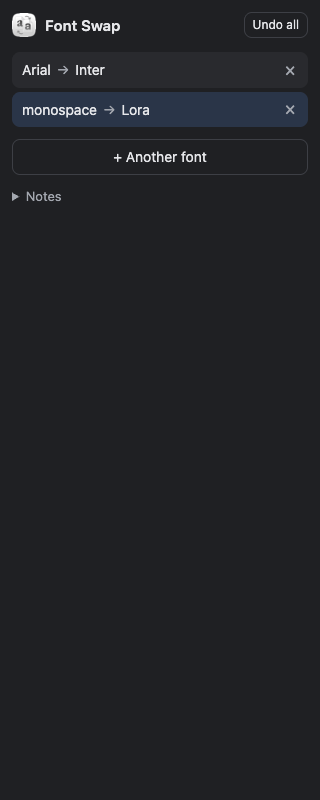
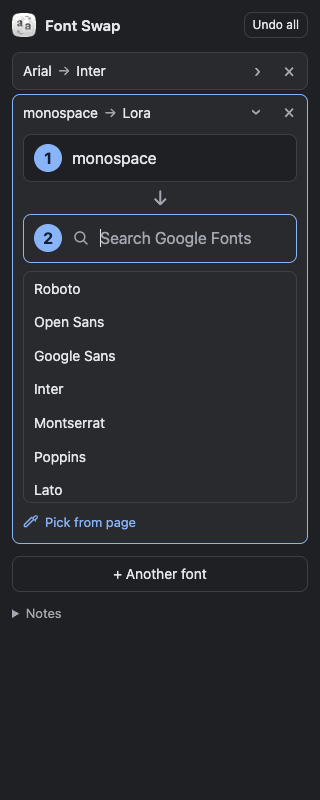
Make font swaps edit inline with clear search and page picking (#2)
* Make the replacement font field visibly searchable

* Expand saved font swaps inline without removing them

* Add an eyedropper beside Pick from page

diff --git a/extension/sidepanel.js b/extension/sidepanel.js
@@ -13,6 +13,7 @@ const els = {
   picking: $('picking'),
   cancel: $('cancel'),
   pairs: $('pairs'),
+  stepsHome: $('steps-home'),
   steps: $('steps'),
   pickSource: $('pick-source'),
   sourceName: $('source-name'),
@@ -144,10 +145,11 @@ function render() {
   els.undo.hidden = !rules.length;
   els.undo.disabled = busy;
   els.picking.hidden = !state.picking;
-  renderPairs(rules);
+  const inline = renderPairs(rules, editing);
 
   els.steps.hidden = !editing;
-  els.another.hidden = editing;
+  els.stepsHome.hidden = !editing || inline;
+  els.another.hidden = !rules.length || (editing && !inline);
   els.sourceName.textContent = state.source || 'Pick font';
   els.pickSource.setAttribute('aria-label', state.source ? `Font to change: ${state.source}. Pick another` : 'Pick font to change');
   els.pickSource.setAttribute('aria-pressed', String(state.picking === 'source'));
@@ -165,25 +167,36 @@ function render() {
   els.warningList.replaceChildren(...warnings.map((text) => Object.assign(document.createElement('li'), { textContent: text })));
 }
 
-function renderPairs(rules) {
+function renderPairs(rules, editing) {
   els.pairs.hidden = !rules.length;
-  const current = sourceKey(state);
-  const signature = JSON.stringify([current, rules.map((rule) => [rule.id, rule.frameId, rule.source, destinationName(rule.destination)])]);
-  if (signature === pairsSignature) return;
+  const openKey = editing ? sourceKey(state) : '';
+  const inline = rules.some((rule) => `${rule.frameId}:${rule.source}` === openKey);
+  const signature = JSON.stringify([openKey, rules.map((rule) => [rule.id, rule.frameId, rule.source, destinationName(rule.destination)])]);
+  if (signature === pairsSignature) return inline;
   pairsSignature = signature;
+  // Keep the single editor alive while rebuilding its accordion rows.
+  els.stepsHome.append(els.steps);
   els.pairs.replaceChildren(...rules.map((rule) => {
     const from = rule.source;
     const to = destinationName(rule.destination);
     const item = document.createElement('li');
     item.className = 'pair';
+    const header = Object.assign(document.createElement('div'), { className: 'pair-header' });
+    const body = Object.assign(document.createElement('div'), { className: 'pair-body', id: `pair-${rule.frameId}-${rule.id}` });
+    const open = `${rule.frameId}:${from}` === openKey;
+    body.hidden = !open;
     const edit = document.createElement('button');
     edit.type = 'button';
     edit.className = 'pair-edit';
     edit.dataset.action = 'select';
+    edit.id = `edit-${rule.frameId}-${rule.id}`;
     edit.setAttribute('aria-label', `Change ${from} to ${to}`);
-    if (`${rule.frameId}:${from}` === current) edit.setAttribute('aria-current', 'true');
+    edit.setAttribute('aria-expanded', String(open));
+    edit.setAttribute('aria-controls', body.id);
     const arrow = Object.assign(document.createElement('span'), { className: 'pair-arrow', textContent: '→' });
-    edit.append(Object.assign(document.createElement('span'), { textContent: from }), arrow, Object.assign(document.createElement('span'), { textContent: to }));
+    const chevron = Object.assign(document.createElement('span'), { className: 'pair-chevron', textContent: '›' });
+    chevron.setAttribute('aria-hidden', 'true');
+    edit.append(Object.assign(document.createElement('span'), { textContent: from }), arrow, Object.assign(document.createElement('span'), { textContent: to }), chevron);
     const remove = document.createElement('button');
     remove.type = 'button';
     remove.className = 'pair-remove';
@@ -194,9 +207,12 @@ function renderPairs(rules) {
       button.dataset.ruleId = rule.id;
       button.dataset.frameId = rule.frameId;
     }
-    item.append(edit, remove);
+    header.append(edit, remove);
+    if (open) body.append(els.steps);
+    item.append(header, body);
     return item;
   }));
+  return inline;
 }
 
 // Actions
@@ -310,10 +326,23 @@ els.pairs.addEventListener('click', async (event) => {
   if (!button) return;
   const payload = { ruleId: button.dataset.ruleId, frameId: Number(button.dataset.frameId) };
   const rule = state.rules.find((entry) => String(entry.id) === payload.ruleId && entry.frameId === payload.frameId);
-  if (rule) payload.ruleId = rule.id;
+  if (busy || !rule) return;
+  payload.ruleId = rule.id;
   if (button.dataset.action === 'select') {
-    doneKey = '';
-    if (await run('select', payload)) els.search.focus();
+    if (button.getAttribute('aria-expanded') === 'true') {
+      if (state.picking) await run('cancel');
+      doneKey = sourceKey(state);
+      render();
+      $(button.id)?.focus();
+      return;
+    }
+    if (await run('select', payload)) {
+      doneKey = '';
+      els.search.value = '';
+      activeIndex = -1;
+      render();
+      els.search.focus();
+    }
   } else if (await run('remove', payload)) {
     (els.another.hidden ? els.pickSource : els.another).focus();
   }

diff --git a/extension/sidepanel.html b/extension/sidepanel.html
@@ -31,17 +31,25 @@
 
       <ul id="pairs" class="pairs" aria-label="Swapped fonts" hidden></ul>
 
+      <div id="steps-home">
       <div id="steps" class="steps">
         <button type="button" id="pick-source" class="step" aria-pressed="false">
           <span class="step-number" aria-hidden="true">1</span>
           <span id="source-name" class="step-label">Pick font</span>
         </button>
-        <div class="step">
-          <label class="step-number" for="search"><span aria-hidden="true">2</span><span class="visually-hidden">Choose font</span></label>
-          <input id="search" class="step-input" type="text" role="combobox" aria-autocomplete="list" aria-expanded="false" aria-controls="results" autocomplete="off" autocapitalize="off" spellcheck="false" placeholder="Choose font" disabled>
-        </div>
+        <span class="step-arrow" aria-hidden="true">↓</span>
+        <label class="step step-search" for="search">
+          <span class="step-number" aria-hidden="true">2</span>
+          <svg class="search-icon" width="18" height="18" viewBox="0 0 24 24" fill="none" stroke="currentColor" stroke-width="2" aria-hidden="true"><circle cx="10.5" cy="10.5" r="6.5"/><path d="m16 16 4.5 4.5"/></svg>
+          <span class="visually-hidden">Search Google Fonts</span>
+          <input id="search" class="step-input" type="search" role="combobox" aria-autocomplete="list" aria-expanded="false" aria-controls="results" autocomplete="off" autocapitalize="off" spellcheck="false" placeholder="Search Google Fonts" disabled>
+        </label>
         <div id="results" class="results" role="listbox" aria-label="Fonts" hidden></div>
-        <button type="button" id="pick-dest" class="link-button" hidden>Pick from page</button>
+        <button type="button" id="pick-dest" class="link-button" hidden>
+          <svg width="16" height="16" viewBox="0 0 24 24" fill="none" stroke="currentColor" stroke-width="1.75" stroke-linecap="round" stroke-linejoin="round" aria-hidden="true"><path d="m15 6 3-3a2.12 2.12 0 0 1 3 3l-3 3M13 5l6 6M16 8 5 19H2v-3L13 5"/></svg>
+          Pick from page
+        </button>
+      </div>
       </div>
 
       <button type="button" id="another" class="button" hidden>+ Another font</button>

diff --git a/extension/sidepanel.css b/extension/sidepanel.css
@@ -100,6 +100,13 @@ input {
   gap: 8px;
 }
 
+.step-arrow {
+  align-self: center;
+  color: var(--muted);
+  font-size: 20px;
+  line-height: 16px;
+}
+
 .panel-header {
   display: flex;
   align-items: center;
@@ -148,6 +155,9 @@ h1 img {
 }
 
 .link-button {
+  display: inline-flex;
+  align-items: center;
+  gap: 6px;
   align-self: flex-start;
   padding: 2px 0;
   border: 0;
@@ -159,6 +169,10 @@ h1 img {
 
 .link-button:hover {
   text-decoration: underline;
+}
+
+.link-button svg {
+  flex: none;
 }
 
 /* Connection states */
@@ -248,6 +262,16 @@ button.step[aria-pressed="true"] {
   opacity: 0.5;
 }
 
+.step-search {
+  background: var(--surface);
+  cursor: text;
+}
+
+.search-icon {
+  flex: none;
+  color: var(--muted);
+}
+
 .step-number {
   display: grid;
   flex: none;
@@ -278,12 +302,8 @@ button.step[aria-pressed="true"] {
 }
 
 .step-input::placeholder {
-  color: var(--text);
-  opacity: 1;
-}
-
-.step-input:focus::placeholder {
   color: var(--muted);
+  opacity: 1;
 }
 
 /* Results */
@@ -326,14 +346,25 @@ button.step[aria-pressed="true"] {
 
 .pair {
   display: flex;
+  flex-direction: column;
   align-items: stretch;
   min-width: 0;
+  border: 1px solid var(--border);
   border-radius: var(--radius);
   background: var(--surface);
 }
 
-.pair:has([aria-current="true"]) {
-  background: var(--accent-soft);
+.pair:has([aria-expanded="true"]) {
+  border-color: var(--accent);
+}
+
+.pair-header {
+  display: flex;
+  min-width: 0;
+}
+
+.pair-body {
+  padding: 4px 10px 10px;
 }
 
 .pair-edit,
@@ -346,6 +377,7 @@ button.step[aria-pressed="true"] {
 
 .pair-edit {
   display: flex;
+  align-items: center;
   flex: 1 1 auto;
   gap: 6px;
   min-width: 0;
@@ -363,6 +395,18 @@ button.step[aria-pressed="true"] {
 .pair-edit .pair-arrow {
   flex: none;
   color: var(--muted);
+}
+
+.pair-edit .pair-chevron {
+  flex: none;
+  margin-left: auto;
+  color: var(--muted);
+  font-size: 18px;
+  line-height: 1;
+}
+
+.pair-edit[aria-expanded="true"] .pair-chevron {
+  transform: rotate(90deg);
 }
 
 .pair-remove {

diff --git a/docs/verification.md b/docs/verification.md
@@ -1,8 +1,8 @@
 # Verification
 
-Verified 2026-10-07T22:37:42.285Z on macOS arm64, Node 24, Chrome for Testing 152.0.7977.75.
+Verified 2026-10-08T03:21:14.368Z on macOS arm64, Node 24, Chrome for Testing 152.0.7977.75.
 
-Manifest and syntax checks passed. Five unit tests passed. All 32 end-to-end browser checks passed. Font downloads were real, and Chrome's CSS protocol confirmed Lora glyphs in the rendered heading.
+Manifest and syntax checks passed. Five unit tests passed. All 34 end-to-end browser checks passed. Font downloads were real, and Chrome's CSS protocol confirmed Lora glyphs in the rendered heading.
 
 The fixture browser used loopback-only permissions in a temporary manifest copy to exercise permitted frames. The native-panel browser used the exact production manifest and a real toolbar action. Test browsers, fixture servers and temporary profiles were closed.
 
@@ -32,9 +32,11 @@ The fixture browser used loopback-only permissions in a temporary manifest copy 
 - Undo all restores simultaneous swaps across permitted frames
 - restricted browser page reports unsupported action
 - production manifest toolbar gesture opens native panel and grants activeTab
+- saved pair opens and closes inline without removing the pair or changing the applied font
 - native panel searches, applies instantly, edits by keyboard and undoes on public iana.org
 - native panel adds simultaneous pairs while production permissions protect cross-origin frames
-- minimal two-pair panel fits 320px and renders light and dark themes
+- switching accordion rows keeps both swaps applied and expands one editor at a time
+- expanded two-pair accordion fits 320px and renders light and dark themes
 - native panel removes one pair independently and Undo all restores the rest
 - native panel page-picked destination applies immediately and collapses to pair
 - native panel reconnects after navigation and Escape cancels picker
@@ -65,3 +67,11 @@ The Codex in-app browser's control policy rejected chrome://extensions because o
 ![Dark panel](panel-dark.png)
 
 These results cover the listed cases on the tested browsers. They do not establish exact glyph detection or universal browser compatibility. See README boundaries.
+
+## Search and accordion in v0.2.1
+
+The second pick uses a search icon, Search Google Fonts label and placeholder, a filled background, and native search input. Clicking the row focuses the field. The actual native Chrome panel was visually checked at 320px in light and dark themes. All 34 browser checks and five unit tests passed again. Saved pairs expand the two-pick editor inside their row, with one row open at a time. Opening, closing and switching rows preserves the applied fonts. A down arrow connects the two picks. The × button removes a pair independently. Pick from page has a decorative eyedropper icon to its left. The Dia manual checks above refer to v0.2.0; concurrent user input prevented repeating them for this visual patch.
+
+![Search field in dark theme](search-dark.png)
+
+![Search field in light theme](search-light.png)

diff --git a/UI-CONTRACT.md b/UI-CONTRACT.md
@@ -16,6 +16,6 @@ State includes {tabId,frameId,url,source,destination,selection,count,pageFonts,a
 
 Listen for STATE_CHANGED {tabId,state}. Reconnect on tabs.onActivated and tabs.onUpdated complete. Ignore stale responses and updates for other tabs. Show state.error and command failures; preserve current swaps on failure. Loading blocks duplicate choices. Use textContent for dynamic text.
 
-The main UI has two numbered picks. First pick text to change. Then search Google Fonts or pick a replacement from the page. A short active-pair list supports editing, removing one pair, Another font, and Undo all. No Apply, Compare, scope radios, category filters, snippets, or metadata. Short picker hint with Cancel. Warnings may use a small disclosure. Keep 320px layout, light/dark themes, focus styles and keyboard search navigation. No all-caps subtitles or em dashes.
+The main UI has two numbered picks. First pick text to change. Then search Google Fonts or pick a replacement from the page. A down arrow connects the picks. Search uses a magnifying glass and Search Google Fonts placeholder. Pick from page has an eyedropper icon. Each active-pair row expands its editor in place and collapses on a second click. Only one row opens at a time. Opening a row preserves its applied swap; a separate × button removes it. Another font and Undo all remain available. No Apply, Compare, scope radios, category filters, snippets, or metadata. Short picker hint with Cancel. Warnings may use a small disclosure. Keep 320px layout, light/dark themes, focus styles and keyboard search navigation. No all-caps subtitles or em dashes.
 
 The source, apply, compare, element scope and sample actions remain internal compatibility APIs. They are not part of this simplified UI.

diff --git a/README.md b/README.md
@@ -10,7 +10,7 @@ Private Chrome extension. Click text, choose a Google Font or another font on th
 4. Open a website and click the Font Swap toolbar icon. Pin the icon for easier access.
 5. **Pick 1**. Click text whose font you want to change. Hovering shows its font name.
 6. **Pick 2**. Search Google Fonts and choose one, or use **Pick from page**. The font changes immediately.
-7. Use **Another font** to add more pairs. Select a pair to change its destination, remove one pair, or **Undo all**.
+7. Use **Another font** to add more pairs. Click a pair to expand its editor in place. Click it again to collapse. Use × to remove one pair, or **Undo all**.
 
 The packaged ZIP contains the same extension files. Unzip it first, then load the extracted folder. Reload the extension from `chrome://extensions` after code updates.
 
